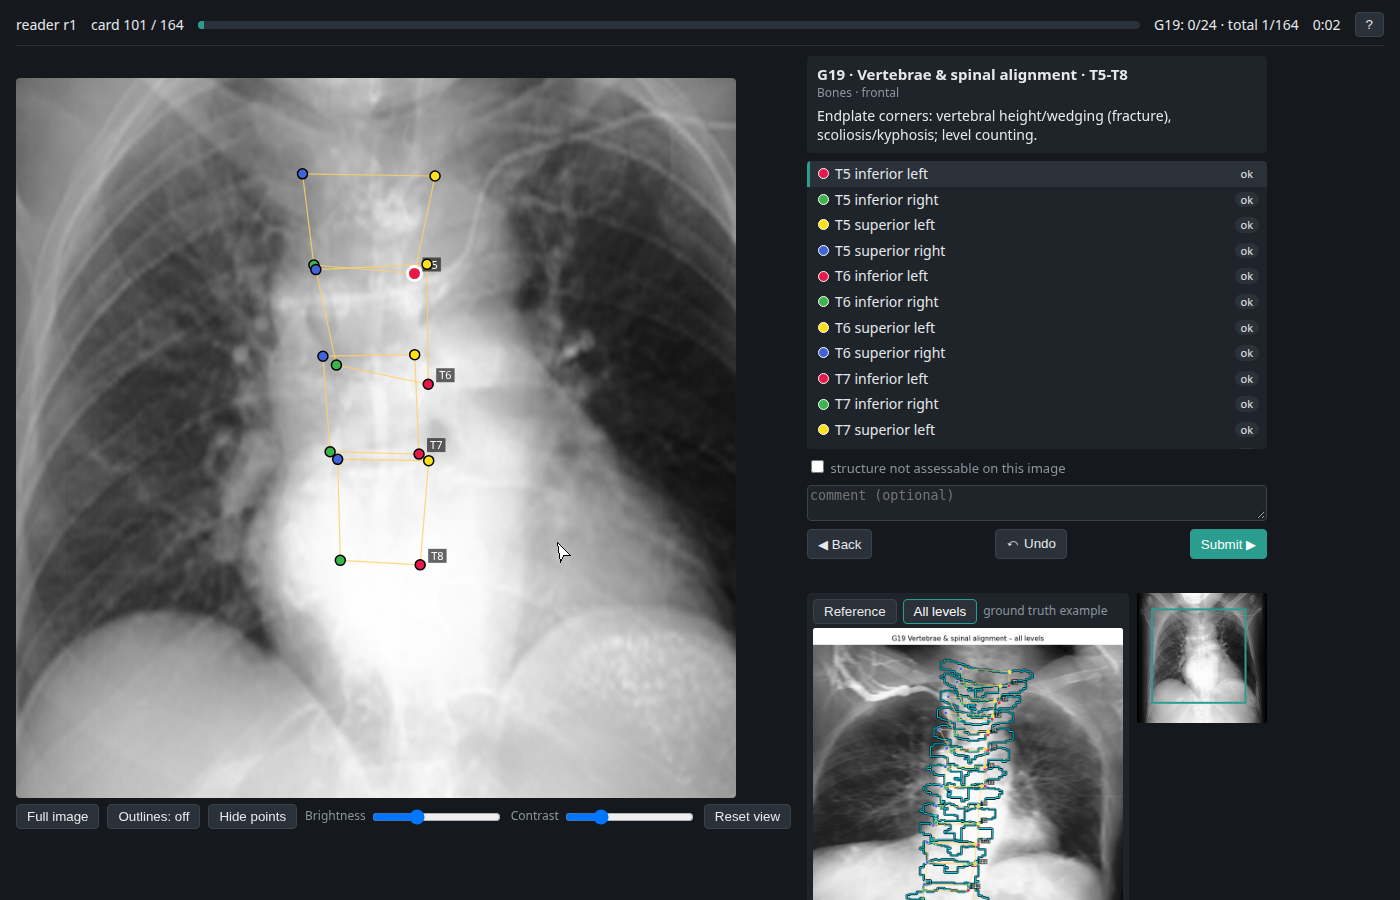
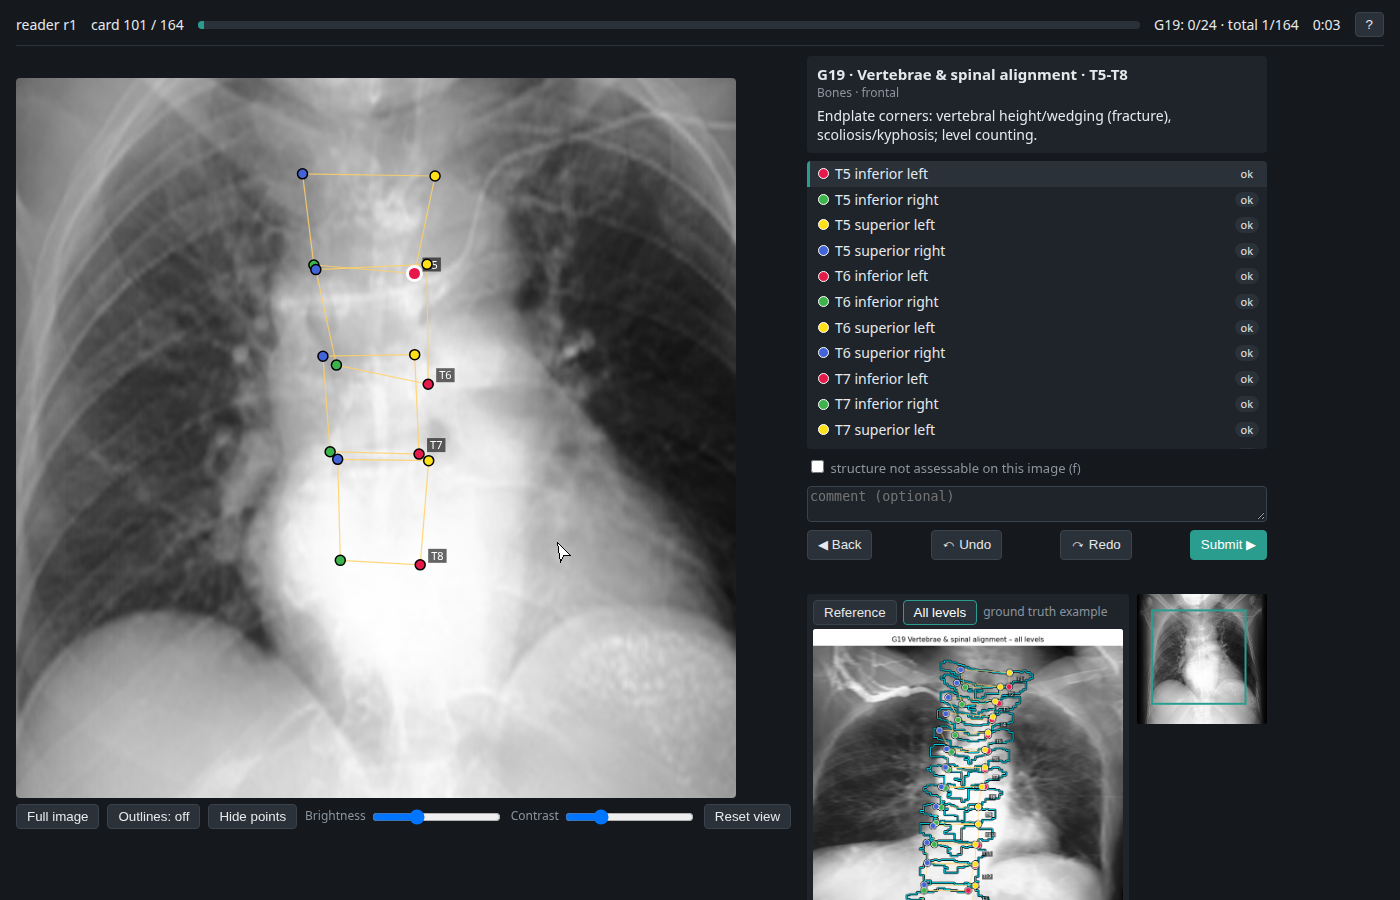
Keyboard: arrow-key nudging, redo, flag and next-unresolved; larger reference points
- Arrow keys nudge the selected point by one screen pixel (Shift: 5);
  consecutive nudges are one undo step. Point selection moves to
  Tab/Shift+Tab, Space jumps to the next unresolved point.
- Redo (Ctrl+Shift+Z / Ctrl+Y), f toggles the not-assessable flag.
- Help panel grouped into points / card / view.
- References: larger points with a dark halo, level labels beside each
  vertebra.

diff --git a/goldkp/web/app.js b/goldkp/web/app.js
@@ -9,7 +9,7 @@ const post = (u, b) => fetch(u, { method: "POST", headers: { "Content-Type": "ap
 
 const S = {
   mode: "read", rid: null, pos: 0, total: 0, card: null, pts: [], sel: 0,
-  img: null, outlines: null, showMasks: false, hide: false, full: false, hist: [],
+  img: null, outlines: null, showMasks: false, hide: false, full: false, hist: [], redo: [],
   drag: null, activeMs: 0, lastInput: Date.now(), nEvents: 0, refKind: "main",
   view: { x0: 0, y0: 0, x1: 512, y1: 512, sx: 1, sy: 1 },
 };
@@ -52,7 +52,7 @@ async function load(pos) {
   S.pts = S.mode === "adjudicate" ? adjPoints(c) : c.points.map((p) => ({ ...p, n_edits: 0 }));
   S.sel = Math.max(0, S.pts.findIndex((p) => p.status === "missing"));
   S.img = await loadImage(`/api/img/${c.img}`);
-  S.hist = [];
+  S.hist = []; S.redo = [];
   S.outlines = null;
   if (S.showMasks && S.mode !== "adjudicate") S.outlines = await api(`/api/r/${S.rid}/card/${pos}/outlines`);
   renderLegend();
@@ -267,18 +267,49 @@ function canvasPos(e) {
   return [((e.clientX - r.left) * $("#view").width) / r.width, ((e.clientY - r.top) * $("#view").height) / r.height];
 }
 
+const stateNow = () => JSON.stringify({ pts: S.pts.map((p) => ({ xy: p.xy, status: p.status, unsure: p.unsure, n_edits: p.n_edits, choice: p.choice })),
+                                        flag: $("#flag").checked });
+
 function snapshot() {
-  S.hist.push(JSON.stringify({ pts: S.pts.map((p) => ({ xy: p.xy, status: p.status, unsure: p.unsure, n_edits: p.n_edits, choice: p.choice })),
-                               flag: $("#flag").checked }));
+  S.lastNudge = null;
+  S.hist.push(stateNow());
   if (S.hist.length > 200) S.hist.shift();
+  S.redo = [];
+}
+
+function restore(js) {
+  const st = JSON.parse(js);
+  st.pts.forEach((q, i) => Object.assign(S.pts[i], q));
+  $("#flag").checked = st.flag;
+  renderList(); draw();
 }
 
 function undo() {
   if (!S.hist.length || S.drag) return;
-  const st = JSON.parse(S.hist.pop());
-  st.pts.forEach((q, i) => Object.assign(S.pts[i], q));
-  $("#flag").checked = st.flag;
+  S.redo.push(stateNow());
+  restore(S.hist.pop());
+}
+
+function redo() {
+  if (!S.redo.length || S.drag) return;
+  S.hist.push(stateNow());
+  restore(S.redo.pop());
+}
+
+// arrow keys: move the selected point by whole screen pixels (Shift: 5); consecutive nudges
+// of the same point form one undo step
+function nudge(dx, dy) {
+  const p = S.pts[S.sel];
+  if (!p || !p.xy || p.status === "missing" || p.status === "not_visible" || S.mode === "adjudicate") return;
+  if (S.lastNudge !== S.sel) { snapshot(); S.lastNudge = S.sel; }
+  p.xy = [clamp512(p.xy[0] + dx / S.view.sx), clamp512(p.xy[1] + dy / S.view.sy)];
+  if (p.status === "ok") { p.status = "moved"; p.n_edits++; S.nEvents++; }
   renderList(); draw();
+}
+
+function toggleFlag() {
+  $("#flag").checked = !$("#flag").checked;
+  $("#flag").onchange();
 }
 
 function onDown(e) {
@@ -436,11 +467,12 @@ function wire() {
   $("#refMain").onclick = () => setRef("main");
   $("#refSeries").onclick = () => setRef("series");
   $("#btnUndo").onclick = undo;
+  $("#btnRedo").onclick = redo;
   $("#flag").onchange = () => {
-    if ($("#flag").checked) {
-      const was = $("#flag").checked; $("#flag").checked = false; snapshot(); $("#flag").checked = was;
-      S.pts.forEach((p) => { p.status = "not_visible"; }); renderList(); draw();
-    }
+    const now = $("#flag").checked;
+    $("#flag").checked = !now; snapshot(); $("#flag").checked = now;
+    if (now) S.pts.forEach((p) => { p.status = "not_visible"; });
+    renderList(); draw();
   };
   $("#helpBtn").onclick = () => { $("#help").hidden = false; };
   $("#helpClose").onclick = () => { $("#help").hidden = true; };
@@ -455,11 +487,19 @@ function wire() {
       return;
     }
     if (k === "?") { $("#help").hidden = !$("#help").hidden; return; }
+    if ((e.ctrlKey || e.metaKey) && (k.toLowerCase() === "y" || (k.toLowerCase() === "z" && e.shiftKey))) { e.preventDefault(); redo(); return; }
     if ((e.ctrlKey || e.metaKey) && k.toLowerCase() === "z") { e.preventDefault(); undo(); return; }
+    if (k.startsWith("Arrow")) {
+      e.preventDefault();
+      const st = e.shiftKey ? 5 : 1;
+      nudge(k === "ArrowLeft" ? -st : k === "ArrowRight" ? st : 0, k === "ArrowUp" ? -st : k === "ArrowDown" ? st : 0);
+      return;
+    }
     if (k === "Enter") { e.preventDefault(); submit(); }
     else if (k === "Backspace") { e.preventDefault(); if (S.pos > 0) load(S.pos - 1); }
-    else if (k === "Tab" || k === "ArrowDown") { e.preventDefault(); S.sel = (S.sel + (e.shiftKey ? S.pts.length - 1 : 1)) % S.pts.length; renderList(); draw(); }
-    else if (k === "ArrowUp") { e.preventDefault(); S.sel = (S.sel + S.pts.length - 1) % S.pts.length; renderList(); draw(); }
+    else if (k === "Tab") { e.preventDefault(); S.lastNudge = null; S.sel = (S.sel + (e.shiftKey ? S.pts.length - 1 : 1)) % S.pts.length; renderList(); draw(); }
+    else if (k === " ") { e.preventDefault(); S.lastNudge = null; nextUnresolved(); renderList(); draw(); }
+    else if (k === "f") toggleFlag();
     else if (k === "n") setNotVisible();
     else if (k === "u") toggleUnsure();
     else if (k === "r") resetPoint();

diff --git a/goldkp/web/index.html b/goldkp/web/index.html
@@ -45,11 +45,12 @@
       <div id="adjLegend" hidden>
         <span class="mk a"></span> reader A <span class="mk b"></span> reader B <span class="mk m"></span> mean
       </div>
-      <label id="flagRow"><input type="checkbox" id="flag"> structure not assessable on this image</label>
+      <label id="flagRow"><input type="checkbox" id="flag"> structure not assessable on this image <span class="muted">(f)</span></label>
       <textarea id="comment" rows="2" placeholder="comment (optional)"></textarea>
       <div id="nav">
         <button id="btnPrev" title="Previous card (Backspace)">◀ Back</button>
         <button id="btnUndo" title="Undo the last change on this card (Ctrl+Z)">↶ Undo</button>
+        <button id="btnRedo" title="Redo (Ctrl+Shift+Z / Ctrl+Y)">↷ Redo</button>
         <button id="btnSubmit" class="primary" title="Submit and next (Enter)">Submit ▶</button>
       </div>
       <div id="msg"></div>
@@ -72,19 +73,26 @@
   <div class="panel">
     <h2>Shortcuts</h2>
     <table>
+      <tr><th colspan="2">Points</th></tr>
       <tr><td>drag</td><td>move a point (status: moved)</td></tr>
       <tr><td>click</td><td>place the selected point when it is missing</td></tr>
-      <tr><td>Tab / ↓ ↑</td><td>select next / previous point</td></tr>
+      <tr><td>← → ↑ ↓</td><td>nudge the selected point by 1 screen pixel (Shift: 5)</td></tr>
+      <tr><td>Tab / Shift+Tab</td><td>select next / previous point</td></tr>
+      <tr><td>Space</td><td>select the next unresolved point</td></tr>
       <tr><td>n</td><td>selected point not visible</td></tr>
       <tr><td>u</td><td>toggle unsure</td></tr>
       <tr><td>r</td><td>reset selected point to the pre-fill</td></tr>
-      <tr><td>h (hold)</td><td>hide the points</td></tr>
-      <tr><td>Ctrl+Z</td><td>undo the last change on this card</td></tr>
-      <tr><td>m</td><td>structure outlines (solid: own structure, dashed: structure the rule reads)</td></tr>
-      <tr><td>c</td><td>crop / full image</td></tr>
-      <tr><td>1 / 2</td><td>reference: example / all levels</td></tr>
+      <tr><td>Ctrl+Z / Ctrl+Shift+Z, Ctrl+Y</td><td>undo / redo (this card)</td></tr>
+      <tr><th colspan="2">Card</th></tr>
       <tr><td>Enter</td><td>submit and next card</td></tr>
       <tr><td>Backspace</td><td>previous card</td></tr>
+      <tr><td>f</td><td>structure not assessable on this image</td></tr>
+      <tr><th colspan="2">View</th></tr>
+      <tr><td>m</td><td>structure outlines (solid: own structure, dashed: structure the rule reads)</td></tr>
+      <tr><td>c</td><td>crop / full image</td></tr>
+      <tr><td>h (hold)</td><td>hide the points</td></tr>
+      <tr><td>1 / 2</td><td>reference: example / all levels</td></tr>
+      <tr><td>?</td><td>this help</td></tr>
       <tr><td>Esc</td><td>cancel a drag / close this help</td></tr>
     </table>
     <button id="helpClose">Close</button>

diff --git a/goldkp/web/app.css b/goldkp/web/app.css
@@ -57,3 +57,4 @@ header { display: flex; gap: 14px; align-items: center; padding-bottom: 8px; bor
 #maskLegend .chip { font-size: 12px; padding: 1px 8px; border: 2px solid; border-radius: 10px; background: #000; }
 #maskLegend .chip.rule { border-style: dashed; }
 #nav { gap: 6px; }
+#help th { text-align: left; padding-top: 8px; color: var(--accent); }

diff --git a/e2e/test_e2e.py b/e2e/test_e2e.py
@@ -156,6 +156,38 @@ def test_undo(browser, study):
         assert not errors, errors
 
 
+def test_keyboard_nudge_redo_flag_space(browser, study):
+    with server(study) as url:
+        page, errors = open_reader(browser, url)
+        i = page.evaluate("S.pts.findIndex(p => p.xy)")
+        page.evaluate(f"S.sel = {i}; renderList();")
+        before = page.evaluate(f"S.pts[{i}].xy.slice()")
+        sx, sy = page.evaluate("[S.view.sx, S.view.sy]")
+        for _ in range(3):
+            page.keyboard.press("ArrowRight")
+        page.keyboard.press("Shift+ArrowDown")
+        after = page.evaluate(f"S.pts[{i}].xy")
+        assert abs(after[0] - (before[0] + 3 / sx)) < 1e-6 and abs(after[1] - (before[1] + 5 / sy)) < 1e-6
+        assert statuses(page)[i] == "moved"
+        assert page.evaluate("S.hist.length") == 1                 # consecutive nudges = one undo step
+        page.keyboard.press("Control+z")
+        assert page.evaluate(f"S.pts[{i}].xy") == before and statuses(page)[i] == "ok"
+        page.keyboard.press("Control+Shift+z")                      # redo
+        assert page.evaluate(f"S.pts[{i}].xy") == after
+        page.keyboard.press("Control+z")
+        page.keyboard.press("Control+y")                            # redo, alternative binding
+        assert page.evaluate(f"S.pts[{i}].xy") == after
+        page.keyboard.press("f")                                    # flag: all not visible
+        assert page.locator("#flag").is_checked() and set(statuses(page)) == {"not_visible"}
+        page.keyboard.press("Control+z")
+        assert not page.locator("#flag").is_checked() and statuses(page)[i] == "moved"
+        # Space jumps to the next unresolved point
+        page.evaluate("S.pts[1].status = 'missing'; S.sel = 0; renderList();")
+        page.keyboard.press(" ")
+        assert page.evaluate("S.sel") == 1
+        assert not errors, errors
+
+
 def test_missing_point_and_scratch_placement(browser, study):
     with server(study) as url:
         total = get(f"{url}/api/r/r1/session")["total"]

diff --git a/build/render_refs.py b/build/render_refs.py
@@ -135,21 +135,23 @@ def render(view_data, keys, colours, edges, out: Path, series: bool, title: str,
         if a in at and b in at:
             ax.plot([at[a][0], at[b][0]], [at[a][1], at[b][1]], color="#ffd166", lw=0.9, zorder=4)
     for x, y, key in pts:
-        ax.scatter(x, y, s=26, c=colours[key], edgecolors="white", linewidths=0.6, zorder=5)
+        ax.scatter(x, y, s=130, c="black", linewidths=0, zorder=5)            # dark halo
+        ax.scatter(x, y, s=75, c=colours[key], edgecolors="white", linewidths=1.0, zorder=6)
     if series:
-        done = set()
+        # level label to the right of the instance's outermost point, clear of the markers
+        by_cls: dict = {}
         for x, y, key in pts:
-            cls = key.split("|", 1)[0]
-            if cls in done:
-                continue
-            done.add(cls)
-            ax.text(x + 4, y - 3, instance_label(cls), color="white", fontsize=7, zorder=6,
+            by_cls.setdefault(key.split("|", 1)[0], []).append((x, y))
+        for cls, ps in by_cls.items():
+            x = max(p[0] for p in ps)
+            y = float(np.mean([p[1] for p in ps]))
+            ax.text(x + 10, y, instance_label(cls), color="white", fontsize=7.5, zorder=7, va="center",
                     bbox=dict(boxstyle="round,pad=0.1", fc="black", ec="none", alpha=0.6))
     ax.set_xlim(x0, x1)
     ax.set_ylim(y1, y0)
     ax.axis("off")
     ax.set_title(title, fontsize=10)
-    handles = [plt.Line2D([], [], marker="o", ls="", color=c, markeredgecolor="white", label=n.replace("_", " "))
+    handles = [plt.Line2D([], [], marker="o", ls="", markersize=9, color=c, markeredgecolor="black", label=n.replace("_", " "))
                for n, c in legend]
     handles.append(plt.Line2D([], [], color=OWNER_COL, lw=1.5, label="structure outline"))
     if partners:
